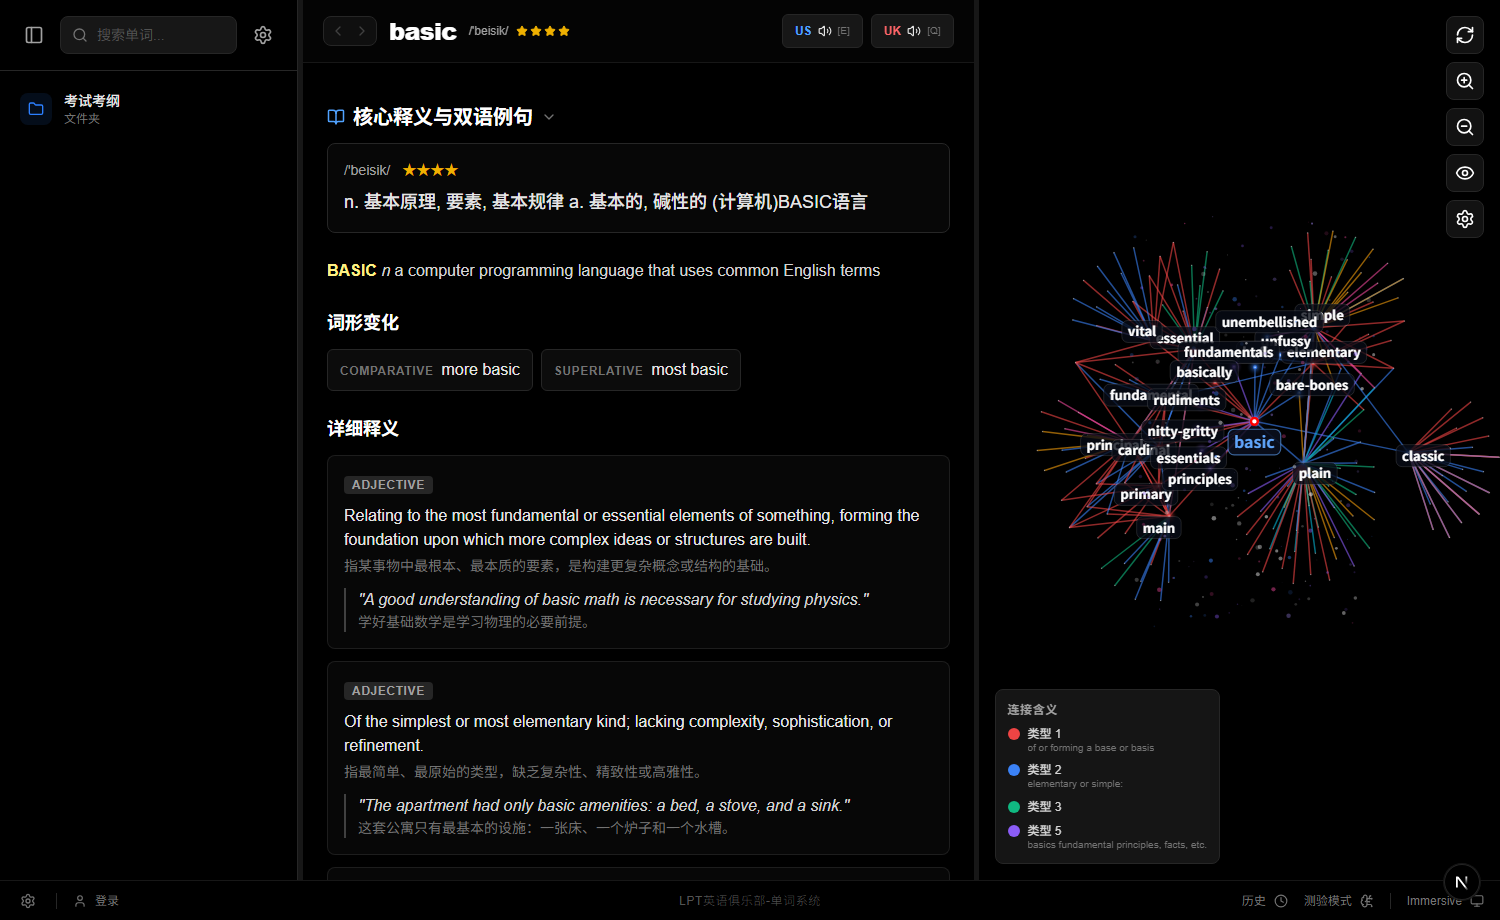
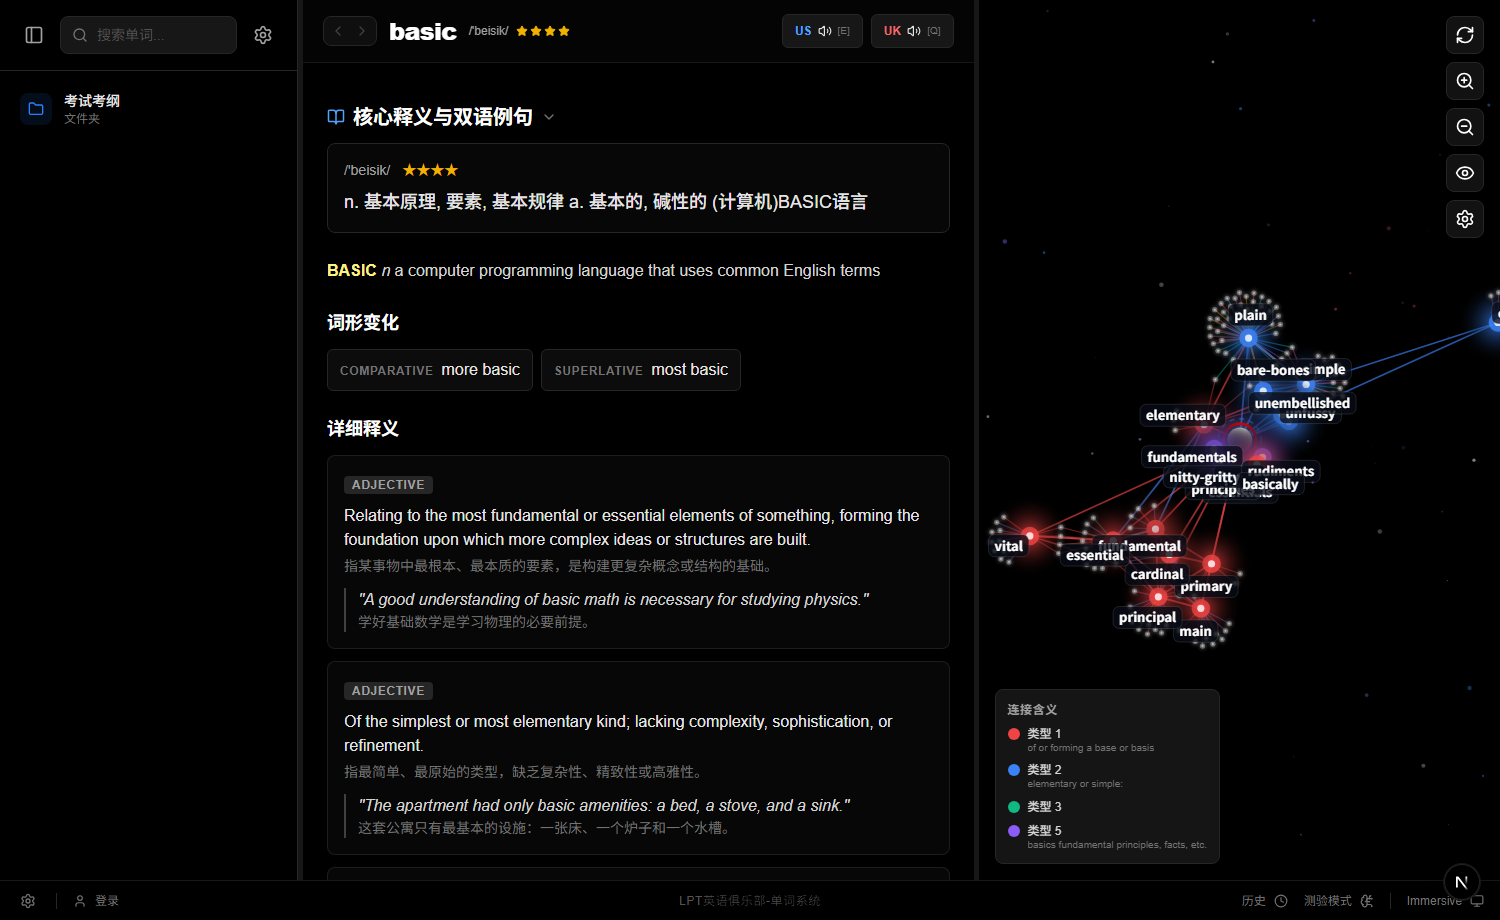
fix(graph): restore compact jewel constellation physics with smooth cyber fiber-optic lines

Changed region(s): [[0.644, 0.2739, 1.0, 0.7]]

diff --git a/src/components/PanelFissionGraph.tsx b/src/components/PanelFissionGraph.tsx
@@ -160,46 +160,31 @@ export default function PanelFissionGraph({ word, onNodeClick }: PanelFissionGra
                         centerNode.fy = 0;
                     }
 
-                    // Group Level 1 nodes by meaning/color so synonyms of the same meaning form clear clusters
-                    const meaningGroups = new Map<string, any[]>();
-                    l1Nodes.forEach((node: any) => {
-                        const key = node.color || 'default';
-                        if (!meaningGroups.has(key)) meaningGroups.set(key, []);
-                        meaningGroups.get(key)!.push(node);
+                    // Sort Level 1 nodes by meaning/color and distribute evenly around 360-degree circle
+                    l1Nodes.sort((a: any, b: any) => String(a.color || '').localeCompare(String(b.color || '')));
+                    const l1Count = l1Nodes.length || 1;
+                    l1Nodes.forEach((node: any, i: number) => {
+                        const angle = (i / l1Count) * 2 * Math.PI - Math.PI / 2;
+                        const r = 175 + (i % 2) * 25;
+                        node.x = Math.cos(angle) * r;
+                        node.y = Math.sin(angle) * r;
                     });
 
-                    const numGroups = meaningGroups.size || 1;
-                    let groupIdx = 0;
-
-                    meaningGroups.forEach((groupNodes) => {
-                        const baseAngle = (groupIdx / numGroups) * 2 * Math.PI - Math.PI / 2;
-                        const spread = (Math.PI * 1.5) / numGroups;
-
-                        groupNodes.forEach((node, nodeIdx) => {
-                            const count = groupNodes.length;
-                            const subAngle = baseAngle + (count > 1 ? (nodeIdx / (count - 1) - 0.5) * spread : 0);
-                            const r = 260 + (nodeIdx % 2) * 55;
-                            node.x = Math.cos(subAngle) * r;
-                            node.y = Math.sin(subAngle) * r;
-                        });
-                        groupIdx++;
-                    });
-
-                    // Level 2 nodes fan out outward from their Level 1 parents
+                    // Level 2 nodes form tight, organic clusters near their Level 1 parents (45-65px)
                     l2Nodes.forEach((node: any, i: number) => {
                         const parentLink = graphData.links.find((l: any) => (l.target === node.id || l.target?.id === node.id));
                         const parentId = parentLink?.source?.id || parentLink?.source;
                         const parent = l1Nodes.find((n: any) => n.id === parentId);
                         if (parent && parent.x !== undefined && parent.y !== undefined) {
                             const parentAngle = Math.atan2(parent.y, parent.x);
-                            const subAngle = parentAngle + ((i % 5) - 2) * 0.35;
-                            const subR = 110 + (i % 3) * 25;
+                            const subAngle = parentAngle + ((i % 5) - 2) * 0.45;
+                            const subR = 48 + (i % 3) * 14;
                             node.x = parent.x + Math.cos(subAngle) * subR;
                             node.y = parent.y + Math.sin(subAngle) * subR;
                         } else {
                             const angle = (i / (l2Nodes.length || 1)) * 2 * Math.PI;
-                            node.x = Math.cos(angle) * 420;
-                            node.y = Math.sin(angle) * 420;
+                            node.x = Math.cos(angle) * 240;
+                            node.y = Math.sin(angle) * 240;
                         }
                     });
                 }
@@ -309,39 +294,39 @@ export default function PanelFissionGraph({ word, onNodeClick }: PanelFissionGra
             // Disable forceCenter to avoid pulling satellites into (0,0)
             fgRef.current.d3Force('center', null);
 
-            // Celestial Radial Force: Guarantees Level 1 nodes form a spacious orbital ring around center
+            // Celestial Radial Force: Guides Level 1 nodes to a natural 165px orbit
             fgRef.current.d3Force('radial', forceRadial((node: any) => {
-                return node.level === 1 ? 270 : (node.level === 2 ? 420 : 0);
+                return node.level === 1 ? 165 : 0;
             }, 0, 0).strength((node: any) => {
-                return node.level === 1 ? 0.9 : (node.level === 2 ? 0.35 : 0);
+                return node.level === 1 ? 0.6 : 0;
             }));
 
-            // Repulsion to space out nodes within their orbits
-            fgRef.current.d3Force('charge')?.strength(-7000);
+            // Repulsion to space out nodes gently
+            fgRef.current.d3Force('charge')?.strength(-3500);
 
-            // Dynamic link distance
+            // Natural, compact link distances
             fgRef.current.d3Force('link')?.distance((link: any) => {
                 const source = typeof link.source === 'object' ? link.source : data.nodes.find((node) => node.id === link.source);
                 const target = typeof link.target === 'object' ? link.target : data.nodes.find((node) => node.id === link.target);
 
-                // Central node to Level 1 synonyms: 270px
+                // Central node to Level 1 synonyms: 165px
                 if (source?.level === 0 || target?.level === 0) {
-                    return 270;
+                    return 165;
                 }
-                // Level 1 to Level 2 satellites: 120px
+                // Level 1 to Level 2 satellites: tight 50px cluster
                 if (source?.level === 2 || target?.level === 2) {
-                    return 120;
+                    return 52;
                 }
                 // Cross-links between Level 1 synonyms
-                return 220;
+                return 130;
             });
 
-            // Strict collision buffer
+            // Smooth collision buffer
             fgRef.current.d3Force('collide', forceCollide((node: any) => {
-                if (node.level === 0) return 90;
-                if (node.level === 1) return 55;
-                return 24;
-            }).strength(1.0).iterations(8));
+                if (node.level === 0) return 45;
+                if (node.level === 1) return 38;
+                return 12;
+            }).strength(0.85).iterations(6));
 
             // Reheat simulation
             fgRef.current.d3ReheatSimulation();
@@ -929,10 +914,11 @@ export default function PanelFissionGraph({ word, onNodeClick }: PanelFissionGra
                     // If no color, fallback to a default
                     const linkColor = link.color || '#555';
 
+                    const isL2 = (start.level === 2 || end.level === 2);
                     ctx.save();
                     ctx.strokeStyle = linkColor;
-                    ctx.lineWidth = (isHighlighted ? 2.5 : 1.5) / globalScale;
-                    ctx.globalAlpha = hoveredNode && !isRelated ? 0.25 : (isHighlighted ? 0.9 : 0.6);
+                    ctx.lineWidth = (isHighlighted ? 2.6 : (isL2 ? 1.2 : 1.8)) / globalScale;
+                    ctx.globalAlpha = hoveredNode && !isRelated ? 0.15 : (isHighlighted ? 0.95 : (isL2 ? 0.45 : 0.65));
                     ctx.beginPath();
                     ctx.moveTo(start.x, start.y);
                     ctx.lineTo(end.x, end.y);
@@ -965,7 +951,7 @@ export default function PanelFissionGraph({ word, onNodeClick }: PanelFissionGra
                                 tooltipRef.current.style.transform = 'translate(-50%, -100%)';
                             }
 
-                        } else if (node.level === 0 || node.level === 1 || isHovered || isNeighbor || globalScale > 2.2) {
+                        } else if (node.level === 0 || node.level === 1 || isHovered || isNeighbor || globalScale > 3.2) {
                             // Standard Label Drawing (Clean celestial typography)
                             let labelOffsetMultiplier = 1.2;
                             if (node.level === 0) labelOffsetMultiplier = 1.5;

diff --git a/src/components/FissionGraph.tsx b/src/components/FissionGraph.tsx
@@ -115,46 +115,31 @@ export default function FissionGraph({ word, onNodeClick, mode = 'dashboard' }: 
                         centerNode.fy = 0;
                     }
 
-                    // Group Level 1 nodes by meaning/color so synonyms of the same meaning form clear clusters
-                    const meaningGroups = new Map<string, any[]>();
-                    l1Nodes.forEach((node: any) => {
-                        const key = node.color || 'default';
-                        if (!meaningGroups.has(key)) meaningGroups.set(key, []);
-                        meaningGroups.get(key)!.push(node);
+                    // Sort Level 1 nodes by meaning/color and distribute evenly around 360-degree circle
+                    l1Nodes.sort((a: any, b: any) => String(a.color || '').localeCompare(String(b.color || '')));
+                    const l1Count = l1Nodes.length || 1;
+                    l1Nodes.forEach((node: any, i: number) => {
+                        const angle = (i / l1Count) * 2 * Math.PI - Math.PI / 2;
+                        const r = 185 + (i % 2) * 25;
+                        node.x = Math.cos(angle) * r;
+                        node.y = Math.sin(angle) * r;
                     });
 
-                    const numGroups = meaningGroups.size || 1;
-                    let groupIdx = 0;
-
-                    meaningGroups.forEach((groupNodes) => {
-                        const baseAngle = (groupIdx / numGroups) * 2 * Math.PI - Math.PI / 2;
-                        const spread = (Math.PI * 1.5) / numGroups;
-
-                        groupNodes.forEach((node, nodeIdx) => {
-                            const count = groupNodes.length;
-                            const subAngle = baseAngle + (count > 1 ? (nodeIdx / (count - 1) - 0.5) * spread : 0);
-                            const r = 280 + (nodeIdx % 2) * 60;
-                            node.x = Math.cos(subAngle) * r;
-                            node.y = Math.sin(subAngle) * r;
-                        });
-                        groupIdx++;
-                    });
-
-                    // Level 2 nodes fan out outward from their Level 1 parents
+                    // Level 2 nodes form tight, organic clusters near their Level 1 parents (45-65px)
                     l2Nodes.forEach((node: any, i: number) => {
                         const parentLink = graphData.links.find((l: any) => (l.target === node.id || l.target?.id === node.id));
                         const parentId = parentLink?.source?.id || parentLink?.source;
                         const parent = l1Nodes.find((n: any) => n.id === parentId);
                         if (parent && parent.x !== undefined && parent.y !== undefined) {
                             const parentAngle = Math.atan2(parent.y, parent.x);
-                            const subAngle = parentAngle + ((i % 5) - 2) * 0.35;
-                            const subR = 120 + (i % 3) * 25;
+                            const subAngle = parentAngle + ((i % 5) - 2) * 0.45;
+                            const subR = 50 + (i % 3) * 15;
                             node.x = parent.x + Math.cos(subAngle) * subR;
                             node.y = parent.y + Math.sin(subAngle) * subR;
                         } else {
                             const angle = (i / (l2Nodes.length || 1)) * 2 * Math.PI;
-                            node.x = Math.cos(angle) * 440;
-                            node.y = Math.sin(angle) * 440;
+                            node.x = Math.cos(angle) * 250;
+                            node.y = Math.sin(angle) * 250;
                         }
                     });
                 }
@@ -281,30 +266,30 @@ export default function FissionGraph({ word, onNodeClick, mode = 'dashboard' }: 
             // Disable forceCenter to prevent pulling clusters into center
             fgRef.current.d3Force('center', null);
 
-            // Celestial Radial Force: Guarantees Level 1 nodes form a spacious orbital ring
+            // Celestial Radial Force: Guides Level 1 nodes to a natural 175px orbit
             fgRef.current.d3Force('radial', forceRadial((node: any) => {
-                return node.level === 1 ? 280 : (node.level === 2 ? 440 : 0);
+                return node.level === 1 ? 175 : 0;
             }, 0, 0).strength((node: any) => {
-                return node.level === 1 ? 0.9 : (node.level === 2 ? 0.35 : 0);
+                return node.level === 1 ? 0.6 : 0;
             }));
 
-            fgRef.current.d3Force('charge')?.strength(-7500);
+            fgRef.current.d3Force('charge')?.strength(-3500);
 
-            // Dynamic link distance based on target node level
+            // Natural compact link distances
             fgRef.current.d3Force('link')?.distance((link: any) => {
                 const source = typeof link.source === 'object' ? link.source : data.nodes.find((node) => node.id === link.source);
                 const target = typeof link.target === 'object' ? link.target : data.nodes.find((node) => node.id === link.target);
-                if (source?.level === 0 || target?.level === 0) return 280;
-                if (source?.level === 2 || target?.level === 2) return 120;
-                return 220;
+                if (source?.level === 0 || target?.level === 0) return 175;
+                if (source?.level === 2 || target?.level === 2) return 52;
+                return 130;
             });
 
-            // Strict collision exclusion zone
+            // Smooth collision buffer
             fgRef.current.d3Force('collide', forceCollide((node: any) => {
-                if (node.level === 0) return 90;
-                if (node.level === 1) return 55;
-                return 24;
-            }).strength(1.0).iterations(8));
+                if (node.level === 0) return 45;
+                if (node.level === 1) return 38;
+                return 12;
+            }).strength(0.85).iterations(6));
 
             fgRef.current.d3ReheatSimulation();
 
@@ -843,14 +828,16 @@ export default function FissionGraph({ word, onNodeClick, mode = 'dashboard' }: 
                         // If no color, fallback to a default
                         const linkColor = link.color || '#555';
 
+                        const isL2 = (start.level === 2 || end.level === 2);
+                        ctx.save();
                         ctx.strokeStyle = linkColor;
-                        ctx.lineWidth = (isHighlighted ? 2.5 : 1.5) / globalScale;
-                        ctx.globalAlpha = isHighlighted ? 0.9 : 0.6;
+                        ctx.lineWidth = (isHighlighted ? 2.6 : (isL2 ? 1.2 : 1.8)) / globalScale;
+                        ctx.globalAlpha = isHighlighted ? 0.95 : (isL2 ? 0.45 : 0.65);
                         ctx.beginPath();
                         ctx.moveTo(start.x, start.y);
                         ctx.lineTo(end.x, end.y);
                         ctx.stroke();
-                        ctx.globalAlpha = 1;
+                        ctx.restore();
                     }}
 
 
@@ -886,7 +873,7 @@ export default function FissionGraph({ word, onNodeClick, mode = 'dashboard' }: 
                                     tooltipRef.current.style.top = `${screenY}px`;
                                     tooltipRef.current.style.transform = 'translate(-50%, -100%)';
                                 }
-                            } else if (node.level === 0 || node.level === 1 || isHovered || isNeighbor || globalScale > 2.2) {
+                            } else if (node.level === 0 || node.level === 1 || isHovered || isNeighbor || globalScale > 3.2) {
                                 // Standard Label Drawing (Clean celestial typography)
                                 // Dynamic font size based on hierarchy and settings
                                 // Dynamic label offset based on node size
